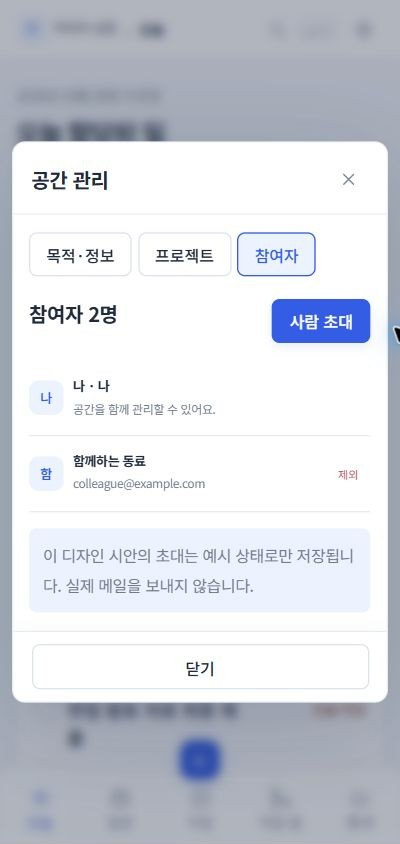
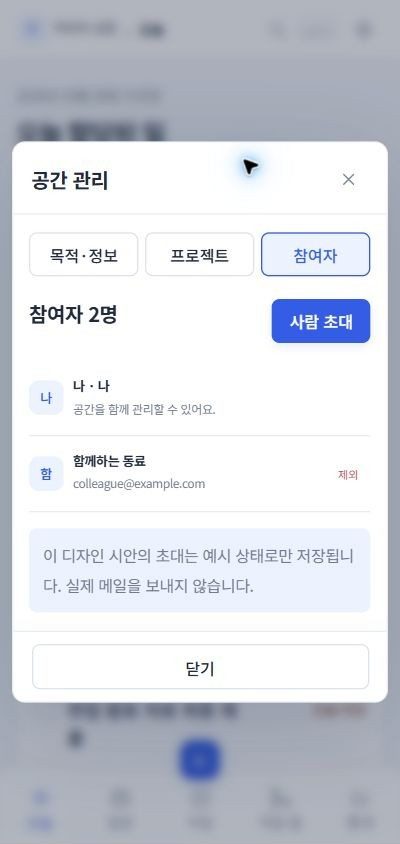
fix: keep space management tabs together on mobile
Use equal-width tabs with 44px touch targets at 320px. Refresh 320px and 400px screenshot evidence after browser checks. npm run check and npm run build pass.

diff --git a/index.html b/index.html
@@ -277,6 +277,11 @@ h2,h3,.panel-head h2,.dialog-head h2,.dialog-fixed-v11 .dialog-head h2,.sequence
 .purpose-empty p{margin:10px 0 18px;font-size:12px;line-height:1.8}
 @media(max-width:760px){.purpose-manager-row:has(.space-switcher-avatar){flex-wrap:nowrap}.purpose-manager-row:has(.space-switcher-avatar) .purpose-manager-main{flex-basis:auto}.purpose-empty .btn{min-height:44px}}
 
+@media(max-width:760px){
+  .purpose-manager-tabs{display:grid;grid-template-columns:repeat(3,minmax(0,1fr));gap:6px}
+  .purpose-manager-tabs .btn{padding:9px 5px;font-size:12px;white-space:nowrap;min-height:44px}
+}
+
 </style>
 </head>
 <body>

diff --git a/purpose-spaces-crud.css b/purpose-spaces-crud.css
@@ -56,3 +56,8 @@
 .purpose-empty strong{color:var(--ink);font-size:14px}
 .purpose-empty p{margin:10px 0 18px;font-size:12px;line-height:1.8}
 @media(max-width:760px){.purpose-manager-row:has(.space-switcher-avatar){flex-wrap:nowrap}.purpose-manager-row:has(.space-switcher-avatar) .purpose-manager-main{flex-basis:auto}.purpose-empty .btn{min-height:44px}}
+
+@media(max-width:760px){
+  .purpose-manager-tabs{display:grid;grid-template-columns:repeat(3,minmax(0,1fr));gap:6px}
+  .purpose-manager-tabs .btn{padding:9px 5px;font-size:12px;white-space:nowrap;min-height:44px}
+}

diff --git a/docs/design-evidence/purpose-spaces-crud.md b/docs/design-evidence/purpose-spaces-crud.md
@@ -1,6 +1,6 @@
 # 핀잇 목적 공간: CRUD 흐름과 PRD 커버리지
 
-2026-11-08 · 디자인 시안 0.17.0 · 기존 pinit-ui-design 소스에 반영.
+2026-11-08 · 디자인 시안 0.17.1 · 기존 pinit-ui-design 소스에 반영.
 
 ## 기준과 범위
 
@@ -14,7 +14,7 @@
 
 기존 브랜드의 배경 #F4F6FA, 표면 #FFFFFF, 본문 #202A3C, 보조 글자 #727C8D, 파랑 #345CE5, 선택 배경 #EDF2FF와 Noto Sans KR을 유지한다. 이름·목적·기여할 성과를 왼쪽 정렬하고, 관리 화면의 목적·정보 / 프로젝트 / 참여자로 진입점을 묶는다. 새로운 대시보드나 독립 시안을 만들지 않는다.
 
-데스크톱은 공간 버튼 아래 선택 패널과 최대 660px 관리 대화상자, 모바일은 공간 선택 하단 시트와 한 열 관리 폼을 사용한다. 헤더와 주요 동작은 유지하고 내용만 스크롤한다. 선택·수정·삭제의 영향 범위와 취소 동작이 시각 장식보다 우선한다. 모바일에서 참여자 행을 짧게 정리하고, 터치 영역·줄바꿈·키보드 포커스를 확인했다.
+데스크톱은 공간 버튼 아래 선택 패널과 최대 660px 관리 대화상자, 모바일은 공간 선택 하단 시트와 한 열 관리 폼을 사용한다. 헤더와 주요 동작은 유지하고 내용만 스크롤한다. 선택·수정·삭제의 영향 범위와 취소 동작이 시각 장식보다 우선한다. 모바일에서 참여자 행을 짧게 정리하고, 터치 영역·줄바꿈·키보드 포커스를 확인했다. 최종 320px 캡처에서 관리 탭이 두 줄로 나뉘는 점을 발견해 세 탭을 같은 폭의 한 줄로 정돈하고 44px 터치 높이를 유지했다.
 
 초기 시안의 누락은 탐색 이후 생성·편집·삭제·참여자 관리로 이어지는 경로였다. 기존 작업·일정 폼에 소속 필드를 붙이고, 목적·프로젝트·참여자 관리를 같은 공간 맥락에 연결하는 방향으로 보완했다.
 

diff --git a/CHANGELOG.md b/CHANGELOG.md
@@ -1,5 +1,9 @@
 # Change history
 
+## 0.17.1 — 2026-11-08
+- Keep the three management tabs on one row at 320px with equal-width columns and 44px touch targets; retain the desktop layout.
+- Recheck 320px/400px layouts, fixed action visibility and screenshots; npm run check and npm run build pass.
+
 ## 0.17.0 — 2026-11-08
 - Connect space/purpose/project create, read, edit, delete and restore flows within the existing prototype, with contextual defaults and first-task empty states.
 - Add example invitations, acceptance/decline/cancellation, member removal with task reassignment, leaving and last-member guidance. No emails or real account permissions are changed.
